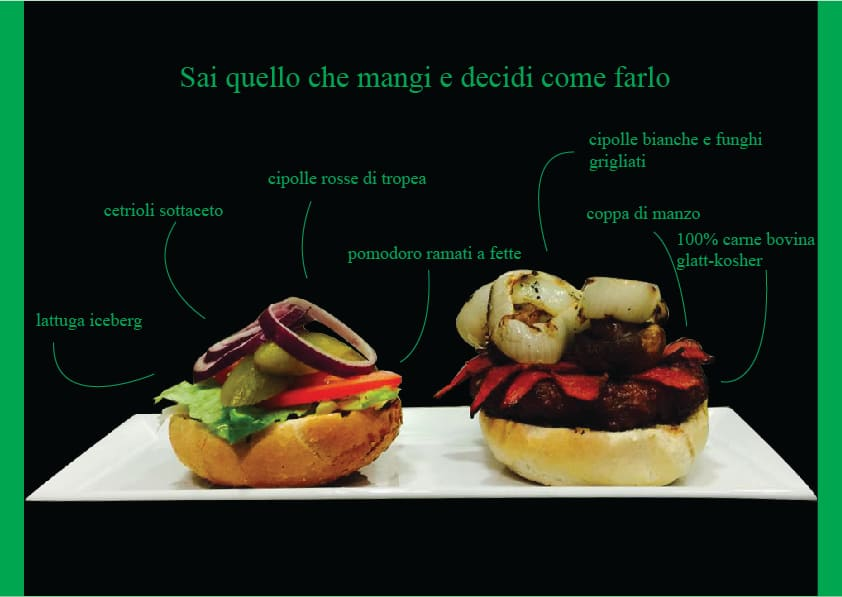
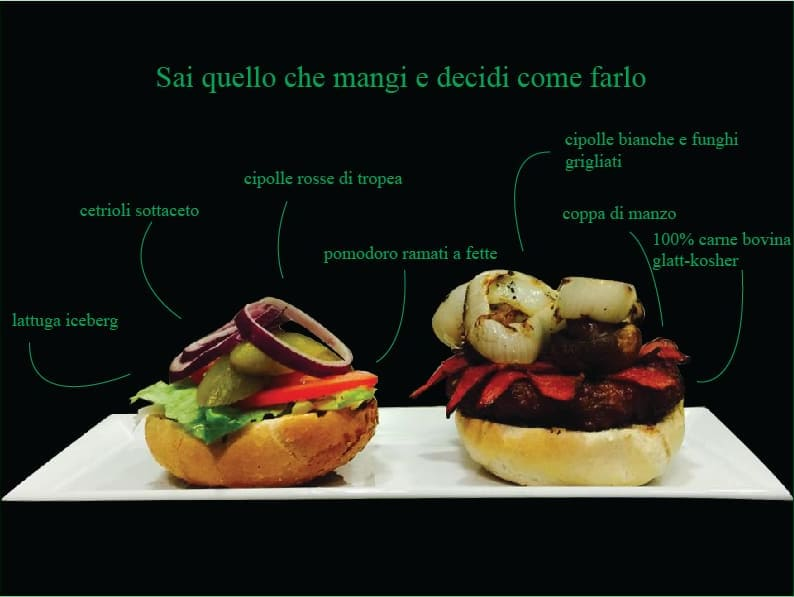
cropped green border off concept photo

diff --git a/client/src/pages/ChiSiamo.jsx b/client/src/pages/ChiSiamo.jsx
@@ -31,7 +31,7 @@ export default function ChiSiamo() {
           <Picture
             src="./images/assets/chisiamo-burger.jpg"
             alt="Hamburger Denzel serviti aperti su un tagliere di legno"
-            width={842}
+            width={794}
             height={597}
             loading="lazy"
           />
